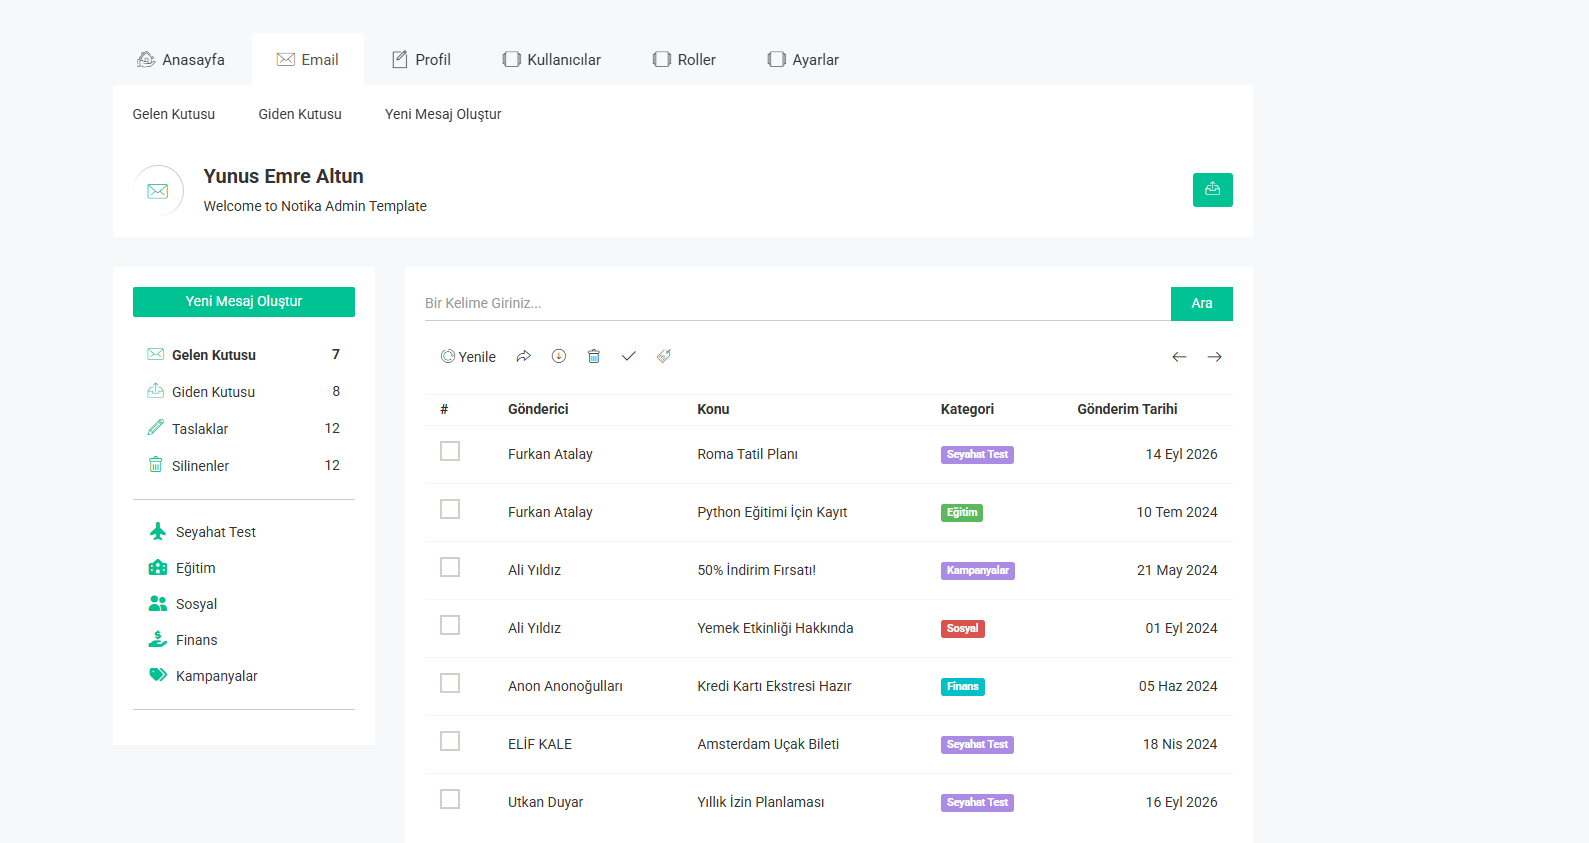
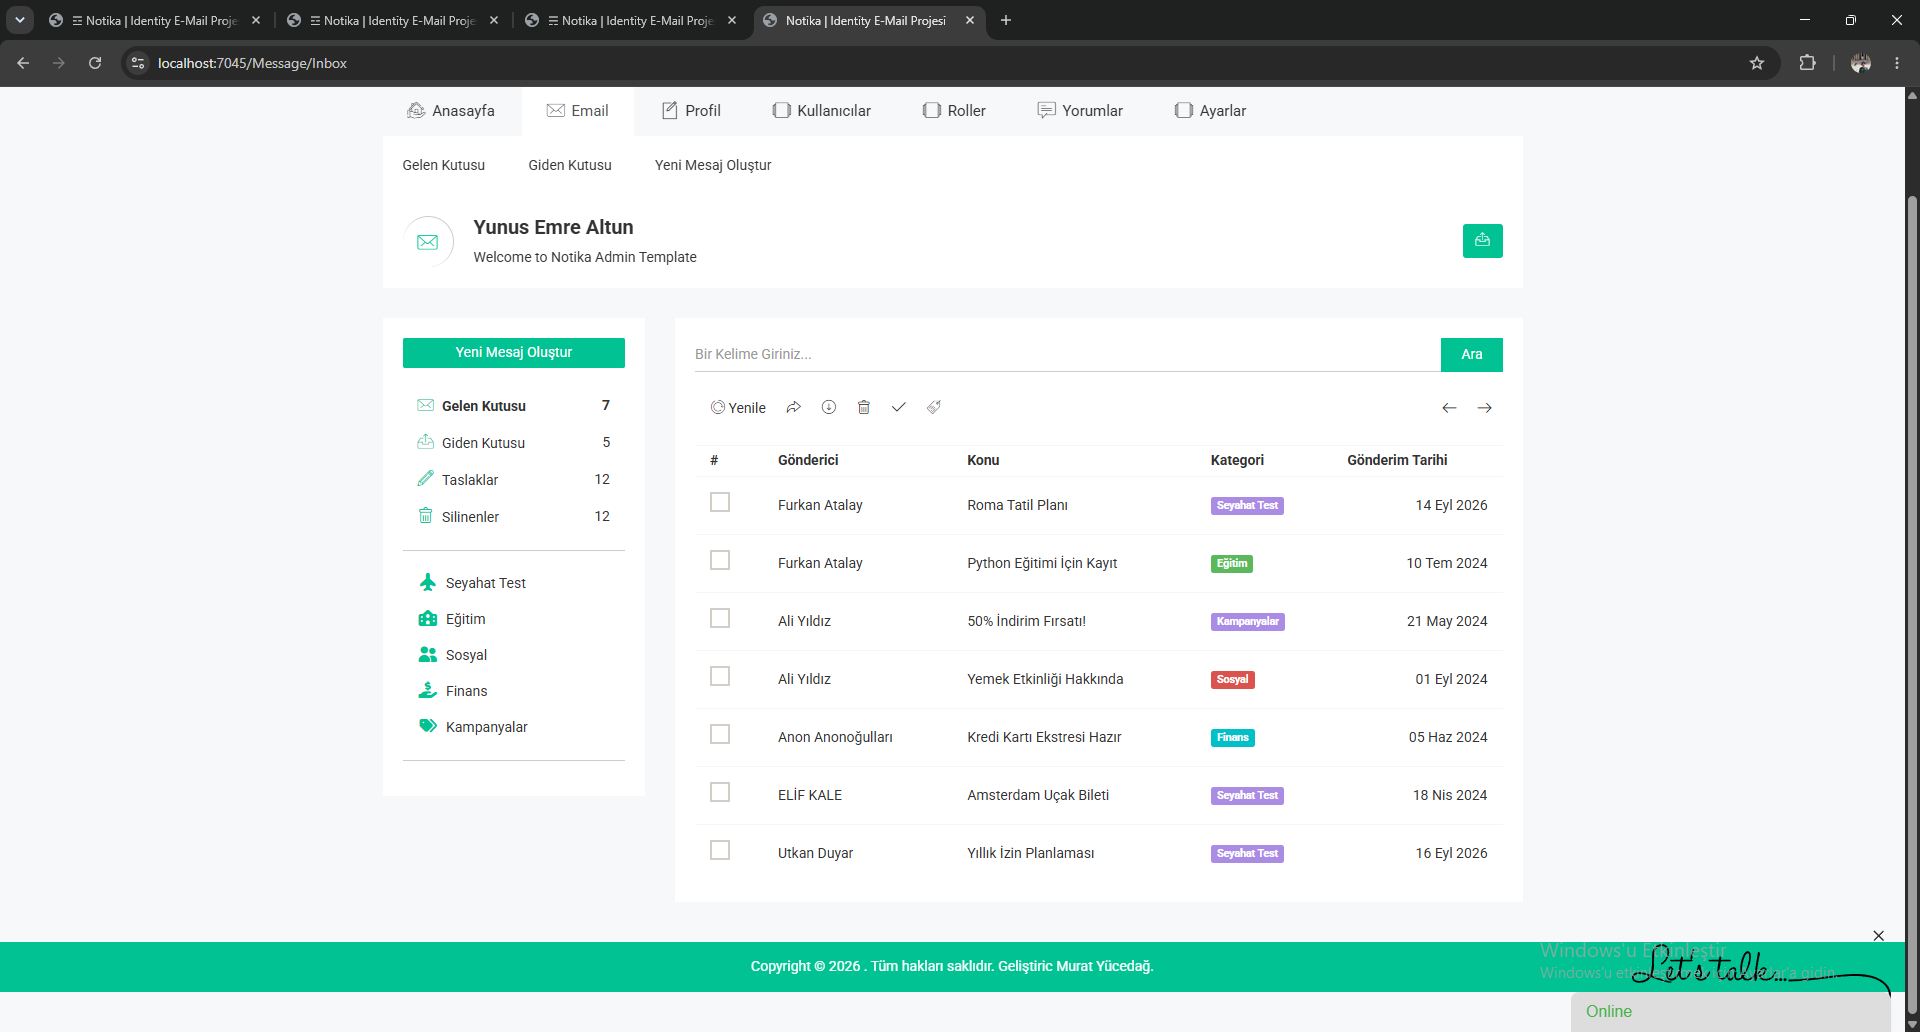
Update project screenshots

diff --git a/README.md b/README.md
@@ -39,6 +39,10 @@ ASP.NET Core 9.0 ile kimlik doğrulama, yetkilendirme ve kullanıcı yönetimi k
 | --- | --- |
 | ![Gelen kutusu](docs/screenshots/inbox.png) | ![Giden kutusu](docs/screenshots/outbox.png) |
 
+| Mesaj detayları | Toksik yorum yönetimi |
+| --- | --- |
+| ![Mesaj detayları](docs/screenshots/message-detail.png) | ![Toksik yorum yönetimi](docs/screenshots/toxic-comments.png) |
+
 ## Teknolojiler
 
 - C# ve ASP.NET Core 9.0 MVC
